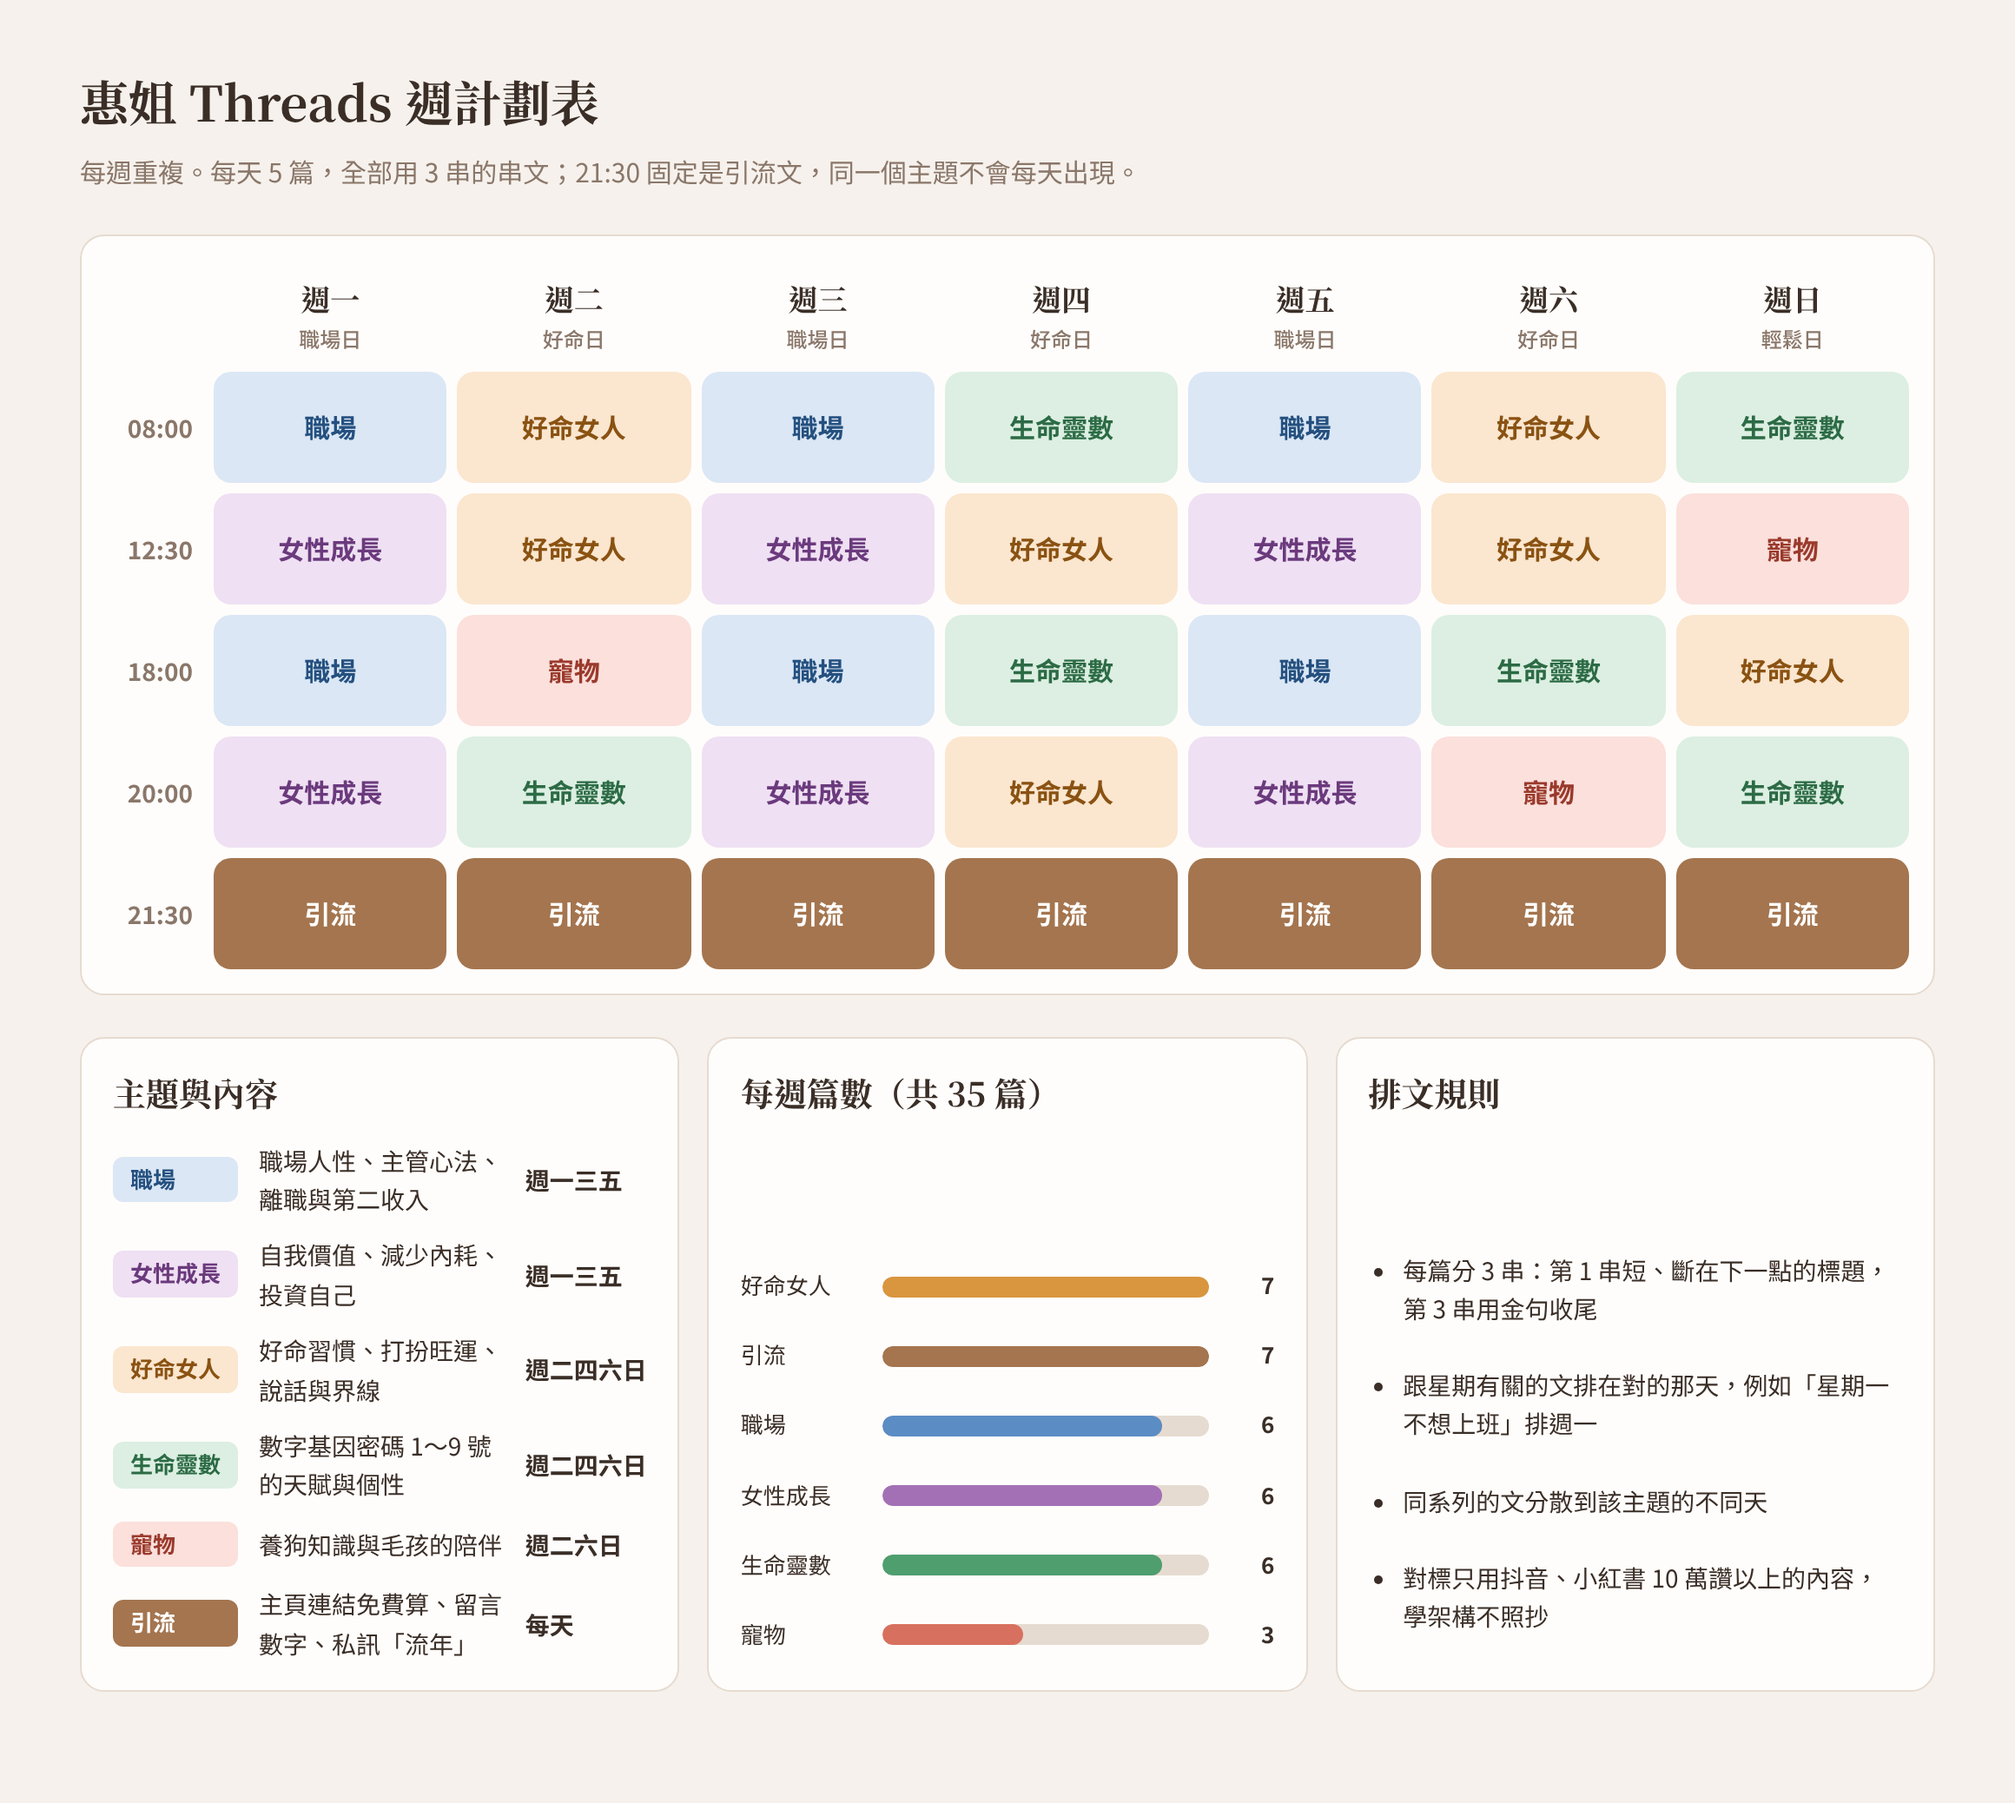
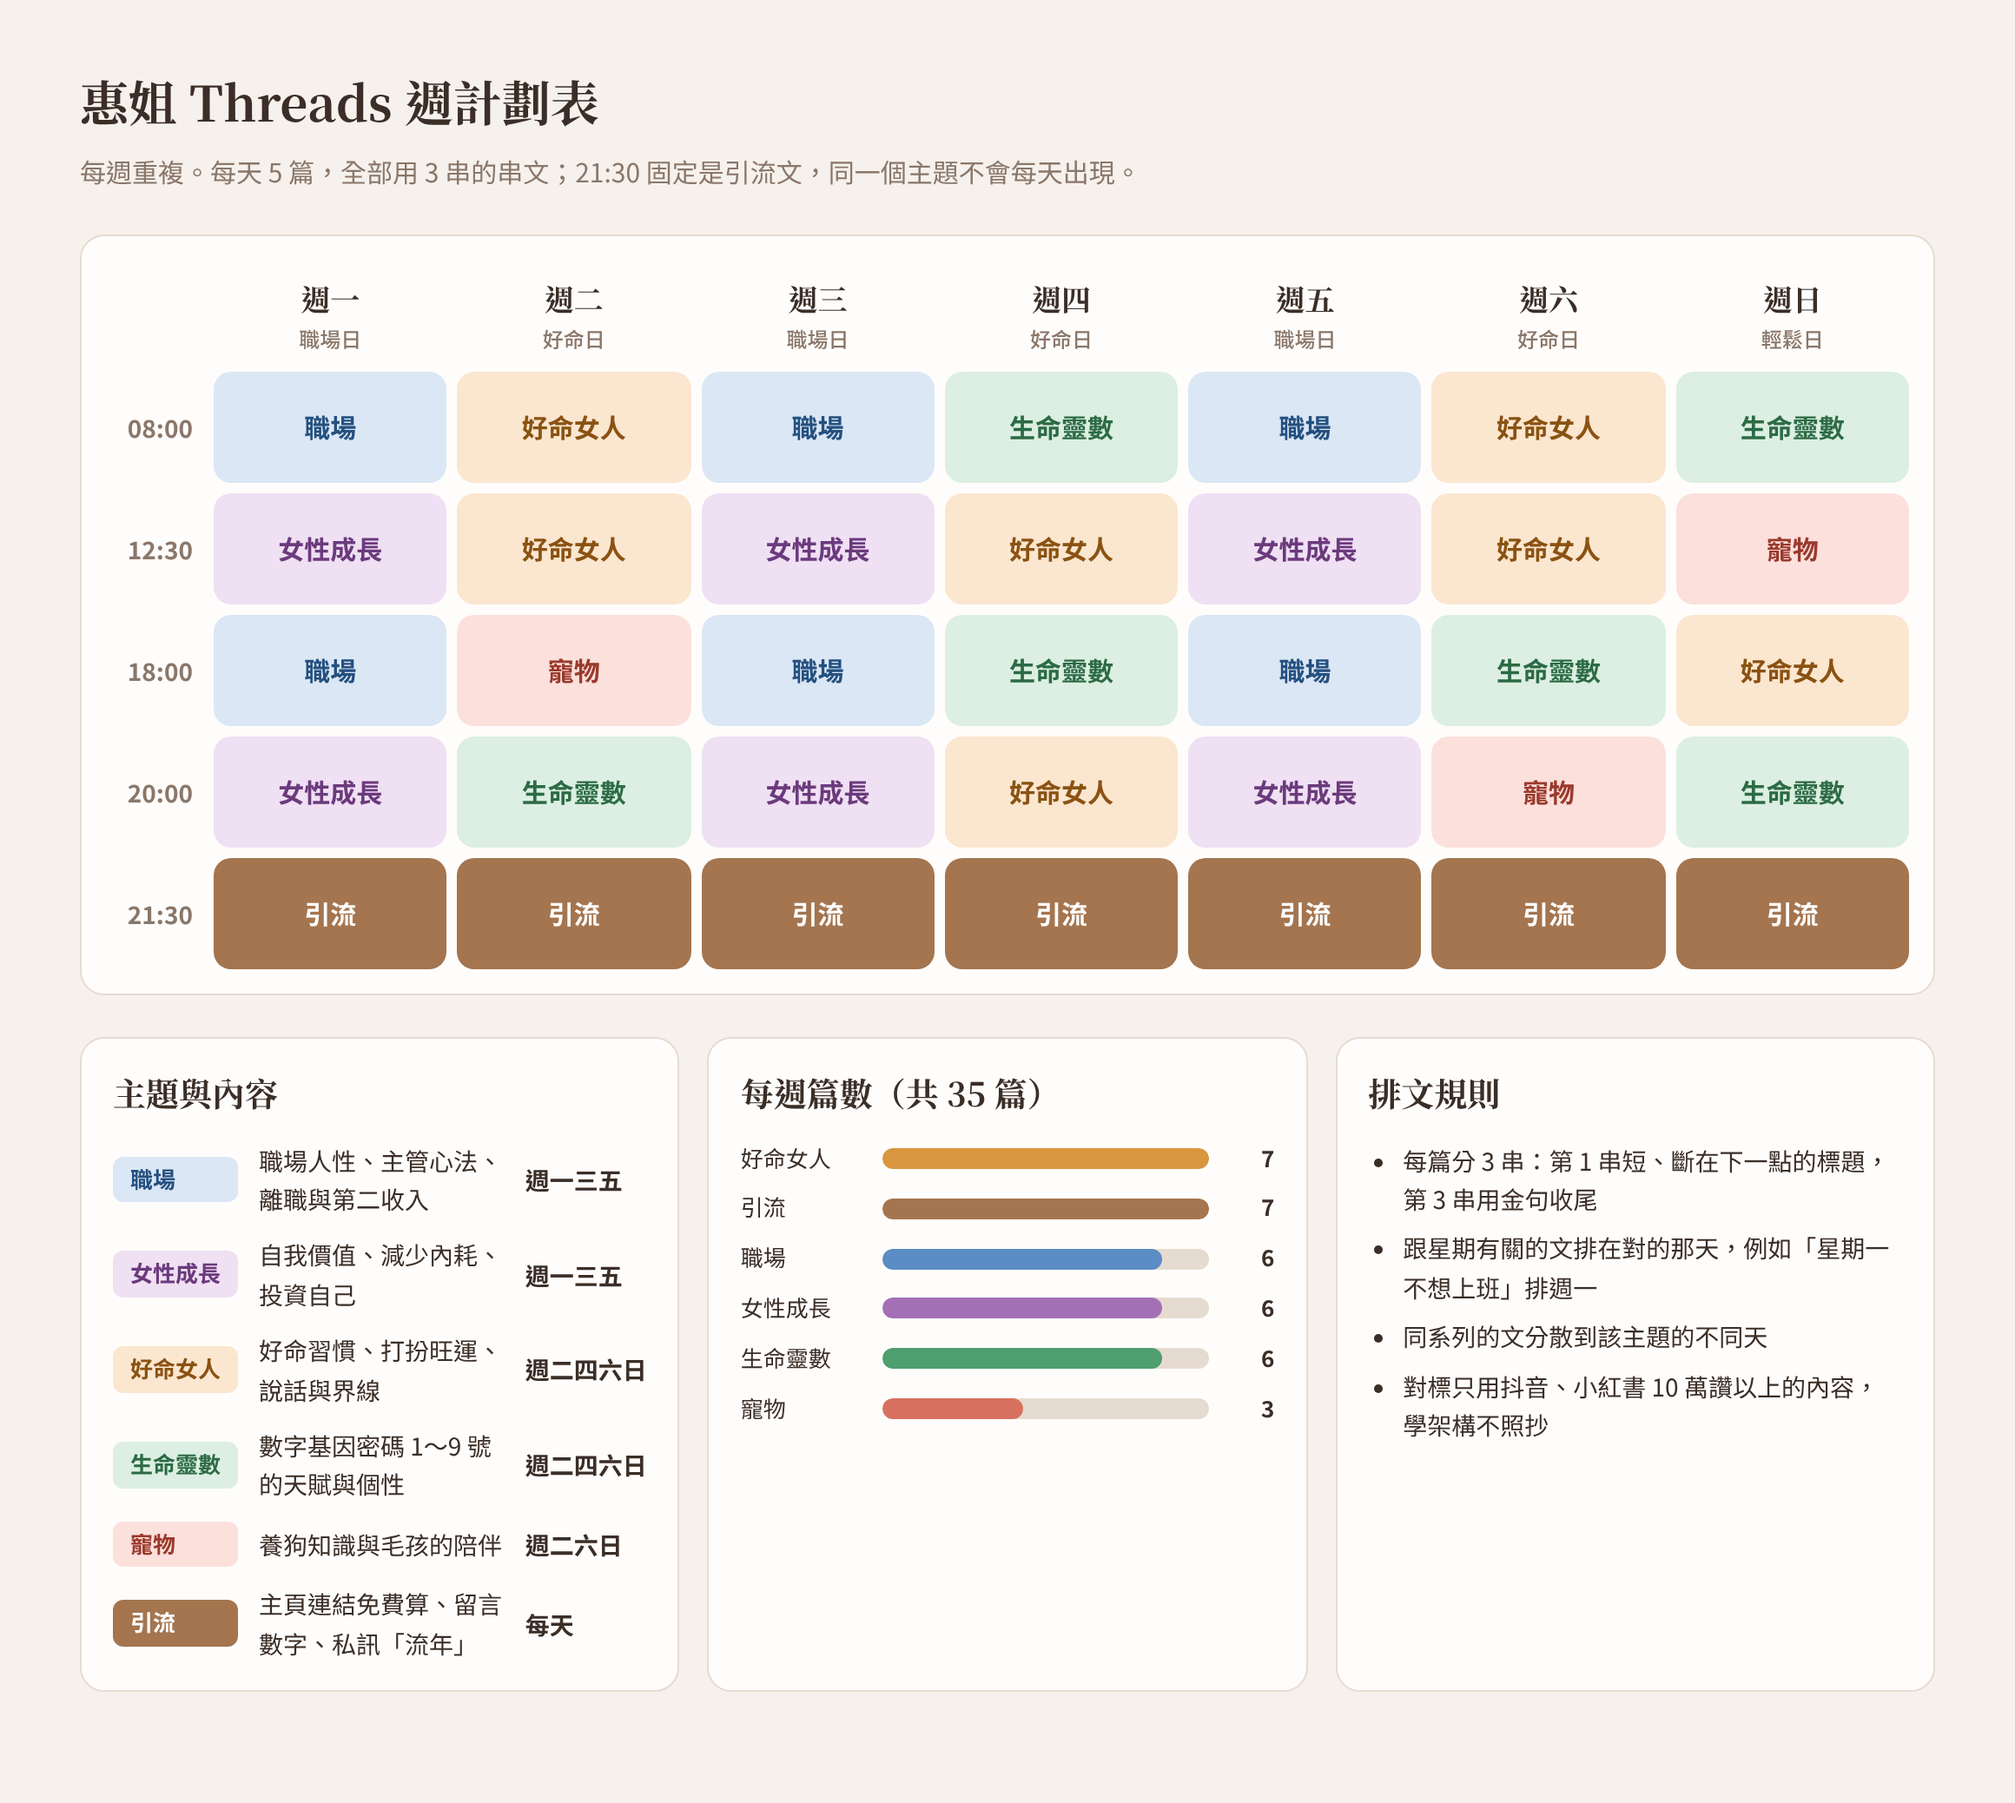
Tighten weekly plan card layout
Claude-Session: https://claude.ai/code/session_01VHjvs2RgVHXqAkxmEgZnZn

diff --git a/自動化發文/週計劃表.html b/自動化發文/週計劃表.html
@@ -43,7 +43,7 @@ tbody th{font-size:14px;font-weight:700;color:var(--muted);text-align:right;padd
 .pet{background:var(--pet-bg);color:var(--pet-fg)}
 .lead{background:var(--lead-bg);color:var(--lead-fg)}
 .grid2{display:grid;grid-template-columns:repeat(auto-fit,minmax(280px,1fr));gap:16px}
-.card{background:var(--surface);border:1px solid var(--line);border-radius:14px;padding:16px 18px;display:grid;gap:12px;min-width:0}
+.card{background:var(--surface);border:1px solid var(--line);border-radius:14px;padding:16px 18px;display:grid;gap:12px;min-width:0;align-content:start}
 .leg{display:grid;grid-template-columns:auto 1fr auto;gap:10px 12px;align-items:center}
 .sw{font-size:13px;font-weight:700;padding:3px 10px;border-radius:6px;white-space:nowrap}
 .leg p{margin:0;font-size:14px;color:var(--fg)}
